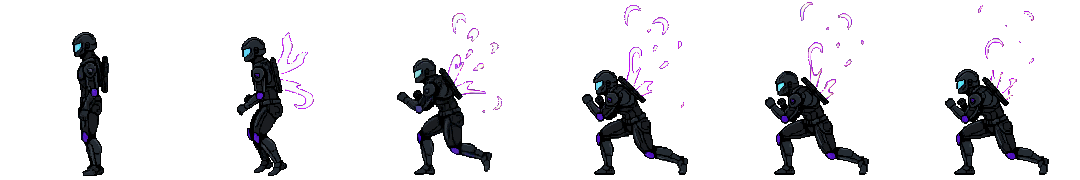
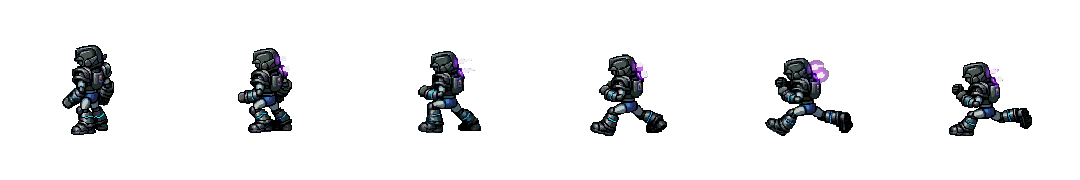
feat(assets): Commander Vex v2 sprites — angular military helmet (no Mega Man head)

diff --git a/tools/stitch_intro_boss.py b/tools/stitch_intro_boss.py
@@ -10,7 +10,7 @@ from pathlib import Path
 from PIL import Image
 
 BASE_REST = "https://api.pixellab.ai/v2"
-CHAR_ID   = "2291f98f-dd2c-4d1a-bae1-b9f21afaa8fa"
+CHAR_ID   = "a3d973c8-637d-4de8-bf8d-65e325dd7bb0"
 OUT_DIR   = Path("characters/bosses/intro_boss")
 
 EXPECTED_FRAMES = {"idle": 4, "walk": 6, "dash": 6, "shoot": 6}
